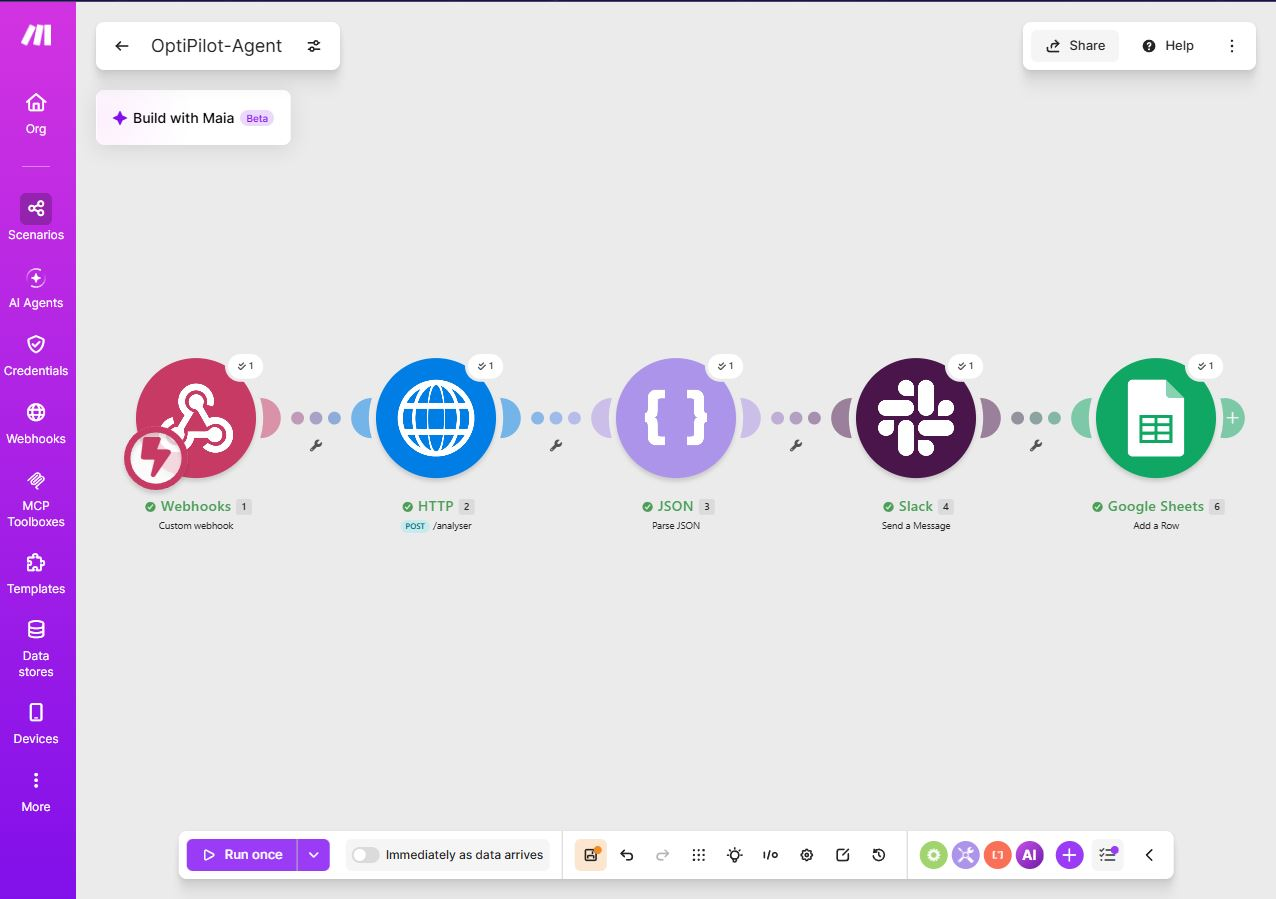
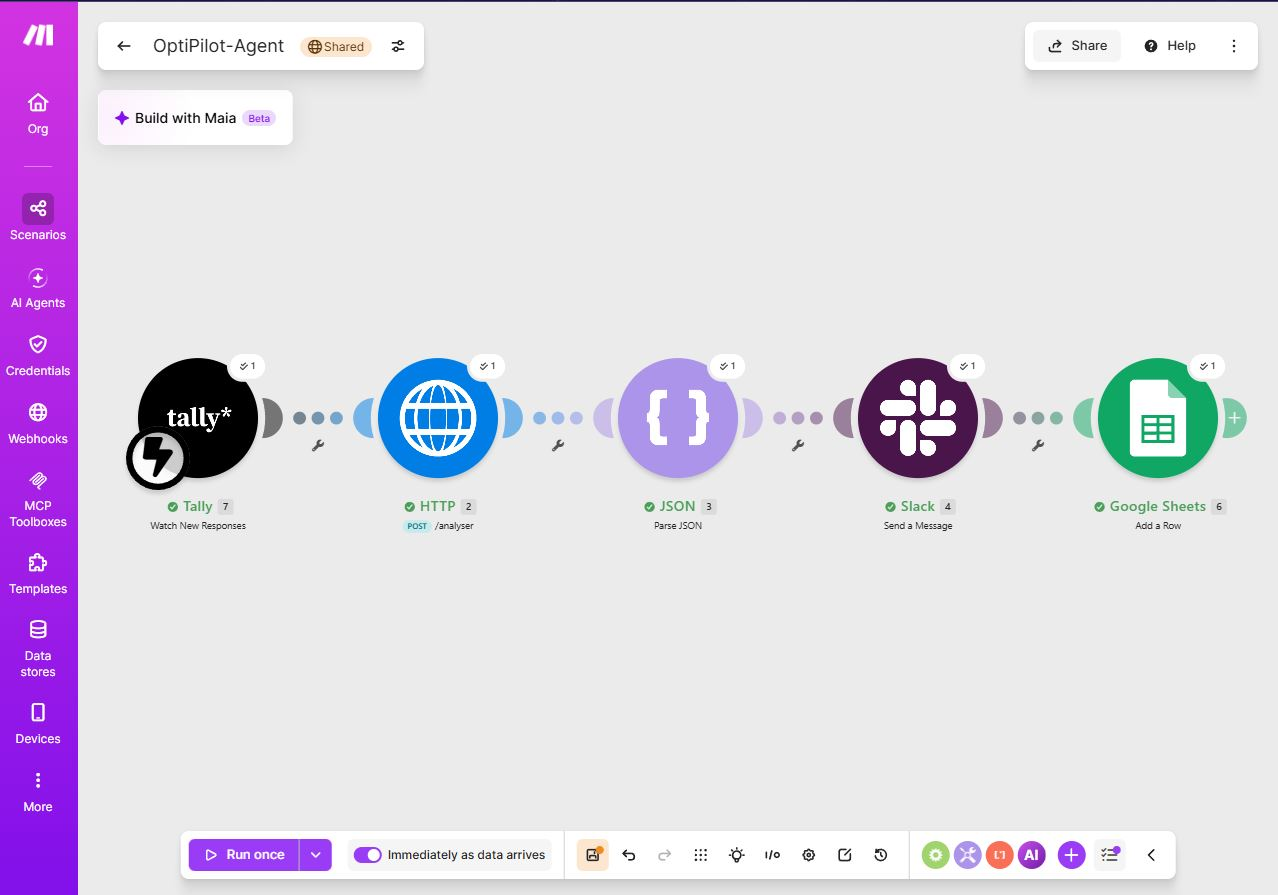
docs : ajout de la documentation du workflow Make et modif du readme

diff --git a/docs/WORKFLOW_MAKE.md b/docs/WORKFLOW_MAKE.md
@@ -1,0 +1,289 @@
+# 📄 Documentation 🔄 Workflow Make — OptiPilot-Agent
+
+Documentation technique du scénario Make qui orchestre le pipeline OptiPilot-Agent, depuis la saisie d'une directive par un responsable jusqu'à sa notification Slack et son archivage dans Google Sheets.
+
+---
+
+## 🎯 Vue d'ensemble
+
+```
+┌────────────────────────────┐
+│  Formulaire Tally          │
+│  (utilisable par non-tech) │
+└─────────────┬──────────────┘
+              │  Response soumise
+              ▼
+┌────────────────────────────┐
+│  Module 1 — Tally          │
+│  Watch New Responses       │
+└─────────────┬──────────────┘
+              │  { note: "..." }
+              ▼
+┌────────────────────────────┐
+│  Module 2 — HTTP           │
+│  POST /analyser (Render)   │
+└─────────────┬──────────────┘
+              │  JSON structuré
+              ▼
+┌────────────────────────────┐
+│  Module 3 — JSON Parse     │
+│  Data structure auto       │
+└─────────────┬──────────────┘
+              │
+      ┌───────┴───────┐
+      ▼               ▼
+┌───────────┐   ┌────────────────┐
+│  Module 4 │   │  Module 5      │
+│  Slack    │   │  Google Sheets │
+│  Notifie  │   │  Archive       │
+└───────────┘   └────────────────┘
+```
+
+---
+
+## 📦 Modules du scénario
+
+### Module 1 — Tally : Watch New Responses
+
+**Rôle** : capter chaque nouvelle réponse au formulaire Tally et déclencher le scénario.
+
+| Paramètre  | Valeur                           |
+| ---------- | -------------------------------- |
+| App        | Tally                            |
+| Trigger    | Watch New Responses              |
+| Connection | Compte Tally (OAuth)             |
+| Form ID    | `OptiPilot - Nouvelle directive` |
+
+**Output** : un objet contenant le champ `note` (Variable name du formulaire Tally).
+
+---
+
+### Module 2 — HTTP : Make a request
+
+**Rôle** : envoyer la note à l'API FastAPI déployée sur Render.
+
+| Paramètre         | Valeur                                              |
+| ----------------- | --------------------------------------------------- |
+| URL               | `https://optipilot-agent-api.onrender.com/analyser` |
+| Method            | `POST`                                              |
+| Headers           | `Content-Type: application/json`                    |
+| Body content type | `JSON (application/json)`                           |
+| Body input method | `Direct`                                            |
+| Body content      | voir ci-dessous                                     |
+
+**Body content** :
+
+```json
+{
+  "note": "{{escapeJSON(1.note)}}",
+  "provider": "demo"
+}
+```
+
+**Providers disponibles** :
+
+- `demo` : rejoue un exemple figé (aucun appel LLM, aucun coût)
+- `groq` : utilise Groq (`openai/gpt-oss-120b`) — nécessite `GROQ_API_KEY` sur Render
+- `mistral` : utilise Mistral Large (hébergement UE) — nécessite `MISTRAL_API_KEY`
+
+---
+
+### Module 3 — JSON : Parse JSON
+
+**Rôle** : transformer la réponse brute de l'API en champs mappables.
+
+| Paramètre      | Valeur                                                  |
+| -------------- | ------------------------------------------------------- |
+| Data structure | `OptiPilotResult` (généré depuis un exemple de réponse) |
+| JSON string    | `{{2.data}}` (ou `{{2.body}}`)                          |
+| Strict         | No                                                      |
+
+**Data structure** : générée automatiquement en collant un exemple de réponse API dans le Generator de Make.
+
+**Champs exposés** :
+
+- `meta.agent`, `meta.version`, `meta.provider`, `meta.processed_at`
+- `strategic_analysis.pole_cible`, `.urgence`, `.complexite_technique`, `.gain_temps_estime`
+- `strategic_analysis.risques_identifies[]`
+- `cahier_des_charges_technique.objectif`, `.inputs[]`, `.processing[]`, `.outputs[]`
+- `prompt_systeme_genere`
+- `notification.canal`, `.destinataire`, `.titre`, `.message_vulgarise`
+- `notification.actions_proposees[].label`, `.action_id`
+
+---
+
+### Module 4 — Slack : Create a Message
+
+**Rôle** : notifier le responsable dans un canal Slack avec un message vulgarisé.
+
+| Paramètre  | Valeur                         |
+| ---------- | ------------------------------ |
+| Connection | Slack (bot) — token `xoxb-...` |
+| Channel    | `#optipilot-alerts`            |
+| Blocks     | vide                           |
+| Text       | voir ci-dessous                |
+
+**Text** :
+
+```
+{{3.notification.titre}}{{newline}}{{newline}}
+
+{{3.notification.message_vulgarise}}
+
+Actions proposées :
+
+• {{join(map(3.notification.actions_proposees; "label"); newline + "• ")}}{{newline}}
+
+Bonne continuation à tous.
+```
+
+**Rendu Slack** :
+
+```
+Synthese Audit QVT prete a valider
+
+Bonjour,
+
+La synthese anonymisee de l'audit QVT par pole est prete pour le Codex.
+Aucun nom ne sort nulle part, tout a ete verifie.
+
+Vous pouvez valider directement ci-dessous, ou demander une relecture RH avant diffusion.
+
+Actions proposées :
+
+• Valider pour le Codex
+• Demander relecture RH
+• Reporter
+
+Bonne continuation a tous.
+```
+
+---
+
+### Module 5 — Google Sheets : Add a Row
+
+**Rôle** : archiver chaque directive traitée dans un tableur, pour traçabilité.
+
+| Paramètre                 | Valeur                                         |
+| ------------------------- | ---------------------------------------------- |
+| Connection                | Compte Google (OAuth)                          |
+| Search Method             | By ID                                          |
+| Spreadsheet ID            | `14hZJsGDaJTAQZ6JnFPJCkfN4uXfCMMMMYipmG--CZeM` |
+| Sheet Name                | `Feuille 1` (ou nom exact de l'onglet)         |
+| Table contains headers    | Yes                                            |
+| Use column headers as IDs | Yes                                            |
+| Unformatted               | Yes                                            |
+
+**Mapping des colonnes** :
+
+| Colonne        | Valeur                                |
+| -------------- | ------------------------------------- |
+| Date (A)       | `{{now}}`                             |
+| Pole_cible (B) | `{{3.strategic_analysis.pole_cible}}` |
+| Urgence (C)    | `{{3.strategic_analysis.urgence}}`    |
+| Titre (D)      | `{{3.notification.titre}}`            |
+
+---
+
+## 💰 Coût du workflow
+
+| Élément                     | Valeur                                   |
+| --------------------------- | ---------------------------------------- |
+| Plan Make                   | Gratuit                                  |
+| Opérations par run          | 5 (Tally + HTTP + JSON + Slack + Sheets) |
+| Quota mensuel gratuit       | 1 000 opérations                         |
+| **Runs mensuels possibles** | **200 runs complets**                    |
+
+Largement suffisant pour un PoC, une démo client, ou un usage interne à faible volume.
+
+---
+
+## 🔒 Sécurité
+
+**Aucune clé API dans Make.** Toutes les clés (`GROQ_API_KEY`, `MISTRAL_API_KEY`) restent uniquement dans les variables d'environnement de Render.
+
+**Sécurisation de l'API FastAPI** :
+
+- Limite de taille sur le champ `note` (20 000 caractères) — anti-DoS
+- Vérification de taille en entrée/sortie
+- Refus d'écriture hors du répertoire courant (path traversal)
+- Messages d'erreur génériques côté client — aucune fuite de secrets dans les logs publics
+- Timeouts explicites sur les appels LLM
+
+**Règle RGPD dans le prompt système** :
+
+- Interdiction de citer un nom propre dans la sortie JSON
+- Le champ `destinataire` doit être un canal ou un rôle, jamais une personne
+- Le champ `message_vulgarise` commence par une formule neutre et se termine par une clôture collective
+
+---
+
+## 🧪 Tester le workflow
+
+### Test rapide (mode demo)
+
+1. Ouvrir le formulaire Tally
+2. Remplir avec : `Il faut un rapport sur le stress au travail dans l'equipe Sales.`
+3. Cliquer sur **Analyser**
+4. Vérifier dans Make → History : 1 run, tous les modules verts
+5. Vérifier Slack : le message doit apparaître
+6. Vérifier Google Sheets : une ligne doit être ajoutée
+
+---
+
+## ⚠ Pièges fréquents
+
+| Piège                                      | Cause                              | Solution                                             |
+| ------------------------------------------ | ---------------------------------- | ---------------------------------------------------- |
+| **Webhook ne reçoit rien**                 | Scénario Make désactivé (OFF)      | Activer le toggle en bas à gauche                    |
+| **`model_not_found` dans les logs Render** | Modèle Groq obsolète               | Mettre `GROQ_MODEL=openai/gpt-oss-120b`              |
+| **`channel_not_found` dans Slack**         | Bot Make pas invité dans le canal  | Taper `/invite @OptiPilot` dans le canal             |
+| **`Spreadsheet not found`**                | ID du Google Sheet incorrect       | Vérifier l'ID ou utiliser "By Path"                  |
+| **`Sheet not found`**                      | Nom d'onglet différent             | Vérifier le nom exact en bas du Sheet                |
+| **`references non-existing module`**       | Un module a été supprimé/réordonné | Re-sélectionner le bon champ dans le module concerné |
+| **Cold start Render (50 s)**               | Free tier Render                   | Attendre, ou ping `/health` toutes les 14 min        |
+| **Actions Slack collées**                  | Retours à la ligne absents         | Utiliser `{{newline}}{{newline}}` dans le Text       |
+
+---
+
+## 🔧 Variables d'environnement (côté Render)
+
+| Variable             | Valeur                 | Obligatoire                                  |
+| -------------------- | ---------------------- | -------------------------------------------- |
+| `GROQ_API_KEY`       | `gsk_...`              | Pour `provider=groq`                         |
+| `GROQ_MODEL`         | `openai/gpt-oss-120b`  | Recommandé (sinon valeur par défaut du code) |
+| `MISTRAL_API_KEY`    | `...`                  | Pour `provider=mistral`                      |
+| `MISTRAL_MODEL`      | `mistral-large-latest` | Optionnel                                    |
+| `OPTIPILOT_PROVIDER` | `demo`                 | Optionnel (défaut : `demo`)                  |
+
+---
+
+## 📚 Fichiers liés
+
+- [`README.md`](../README.md) — présentation du projet
+- [`main.py`](../main.py) — logique LLM et CLI
+- [`api.py`](../api.py) — API FastAPI exposée à Make
+- [`samples/output_optipilot_result.json`](../samples/output_optipilot_result.json) — exemple de réponse API
+
+---
+
+_Documentation du workflow Make pour le PoC OptiPilot-Agent — Tech Ops / AI Builder._
+
+```
+
+
+
+## 📋 Ce que cette doc apporte
+
+| Élément | Bénéfice |
+|---|---|
+| **Vue d'ensemble visuelle** | Compréhension immédiate du pipeline |
+| **Config module par module** | Reproductible en 15 min |
+| **Coût du workflow** | Rassure sur l'aspect financier |
+| **Section sécurité** | Montre les garde-fous appliqués |
+| **Pièges fréquents** | Gagne du temps au prochain bug |
+| **Variables d'environnement** | Déploiement sans surprise |
+| **Fichiers liés** | Navigation rapide dans le repo |
+
+---
+```

diff --git a/README.md b/README.md
@@ -5,13 +5,19 @@ Le workflow relie une note d'un responsable → OptiPilot-Agent → Slack / Goog
 
 🔗 **Démo interactive :**
 
-### **Agent-API déployé :** [OptiPilot-Agent API](https://optipilot-agent-api.onrender.com/docs) ·
+### Démo live : [Tester le formulaire OptiPilot](https://tally.so/r/yPODX4)
 
-### **Code :** [dépôt GitHub](https://github.com/HJuddith/OptiPilot-Agent)
+### Agent-API déployé : [OptiPilot-Agent API](https://optipilot-agent-api.onrender.com/docs)
 
-### **Automatisation :** [Workflow Make](https://eu1.make.com/public/shared-scenario/oJmiTsAxSTd/opti-pilot-agent)
+### Code : [dépôt GitHub](https://github.com/HJuddith/OptiPilot-Agent)
 
-### **Base historique :** [Google Sheets](https://docs.google.com/spreadsheets/d/14hZJsGDaJTAQZ6JnFPJCkfN4uXfCMMMMYipmG--CZeM/edit?gid=0#gid=0)
+### Automatisation : [Workflow Make](https://eu1.make.com/public/shared-scenario/oJmiTsAxSTd/opti-pilot-agent)
+
+📖 [Documentation complète du workflow Make](docs/WORKFLOW_MAKE.md)
+
+### Distribution : [Canal Slack](https://app.slack.com/client/T07KV2SSAE6/C0C2K1L8FHT)
+
+### Base historique : [Google Sheets](https://docs.google.com/spreadsheets/d/14hZJsGDaJTAQZ6JnFPJCkfN4uXfCMMMMYipmG--CZeM/edit?gid=0#gid=0)
 
 ![Aperçu](assets/MakeWorkflow.JPG)
 
@@ -112,15 +118,35 @@ RGPD propres à une entreprise de santé mentale / QVT.**
 ## 🔄 Le workflow sur Make
 
 ```
-[Note du responsable / Webhook]
-       ↓
-[Module HTTP : POST /analyser sur Render]
-       ↓
-[Module JSON : Parse de la réponse]
-       ↓
- ┌─────┴──────────────────────────────────┐
- ↓                                        ↓
-[Slack : Poster le message vulgarisé]   [Google Sheets : Archiver l'analyse]
+┌──────────────────────────────┐
+│  Utilisateur (responsable)   │
+│  Remplit le formulaire Tally │
+└───────────────┬──────────────┘
+                │
+                ▼
+┌──────────────────────────────┐
+│  Tally                       │
+│  Envoie les données à Make   │
+└───────────────┬──────────────┘
+                │  webhook
+                ▼
+┌──────────────────────────────┐
+│  Make — Module HTTP          │
+│  POST /analyser              │
+└───────────────┬──────────────┘
+                │  appel HTTP
+                ▼
+┌──────────────────────────────┐
+│  API FastAPI sur Render      │
+│  https://optipilot-agent-    │
+│  api.onrender.com/analyser   │
+└───────────────┬──────────────┘
+                │  JSON
+                ▼
+┌──────────────────────────────┐
+│  Make — JSON Parse (envoie)  │
+│  → Slack + Google Sheets     │
+└──────────────────────────────┘
 ```
 
 Le workflow est **duplicable sur les 5 pôles** (Sales, Marketing, Ops, RH, Finance) sans
@@ -312,12 +338,16 @@ sur les 5 pôles (Sales, Marketing, Ops, RH, Finance) sans réécrire l'orchestr
 
 ### ✅ Déjà livré
 
-- [x] CLI `main.py` (providers demo / groq / mistral)
-- [x] API FastAPI exposée en webhook (`POST /analyser`)
+- [x] CLI `main.py` — providers `demo` / `groq` / `mistral`
+- [x] API FastAPI (`POST /analyser`) exposée en webhook
 - [x] Déploiement Render (free tier)
-- [x] Détection RGPD native dans le prompt système
+- [x] Prompt système strict avec détection RGPD native
+- [x] Règle anti-noms propres (conformité RGPD)
 - [x] Sécurisation de l'API (limites, path traversal, erreurs génériques)
-- [x] Workflow Make : Slack + Google Sheets de bout en bout
+- [x] Workflow Make : Tally → HTTP → JSON Parse → Slack → Google Sheets
+- [x] Création de formulaire sur Tally : formulaire utilisable par des profils non-tech
+- [x] Notification Slack vulgarisée avec actions proposées et formule de clôture
+- [x] Archivage automatique des directives dans Google Sheets
 
 ### 🚧 En cours
 
